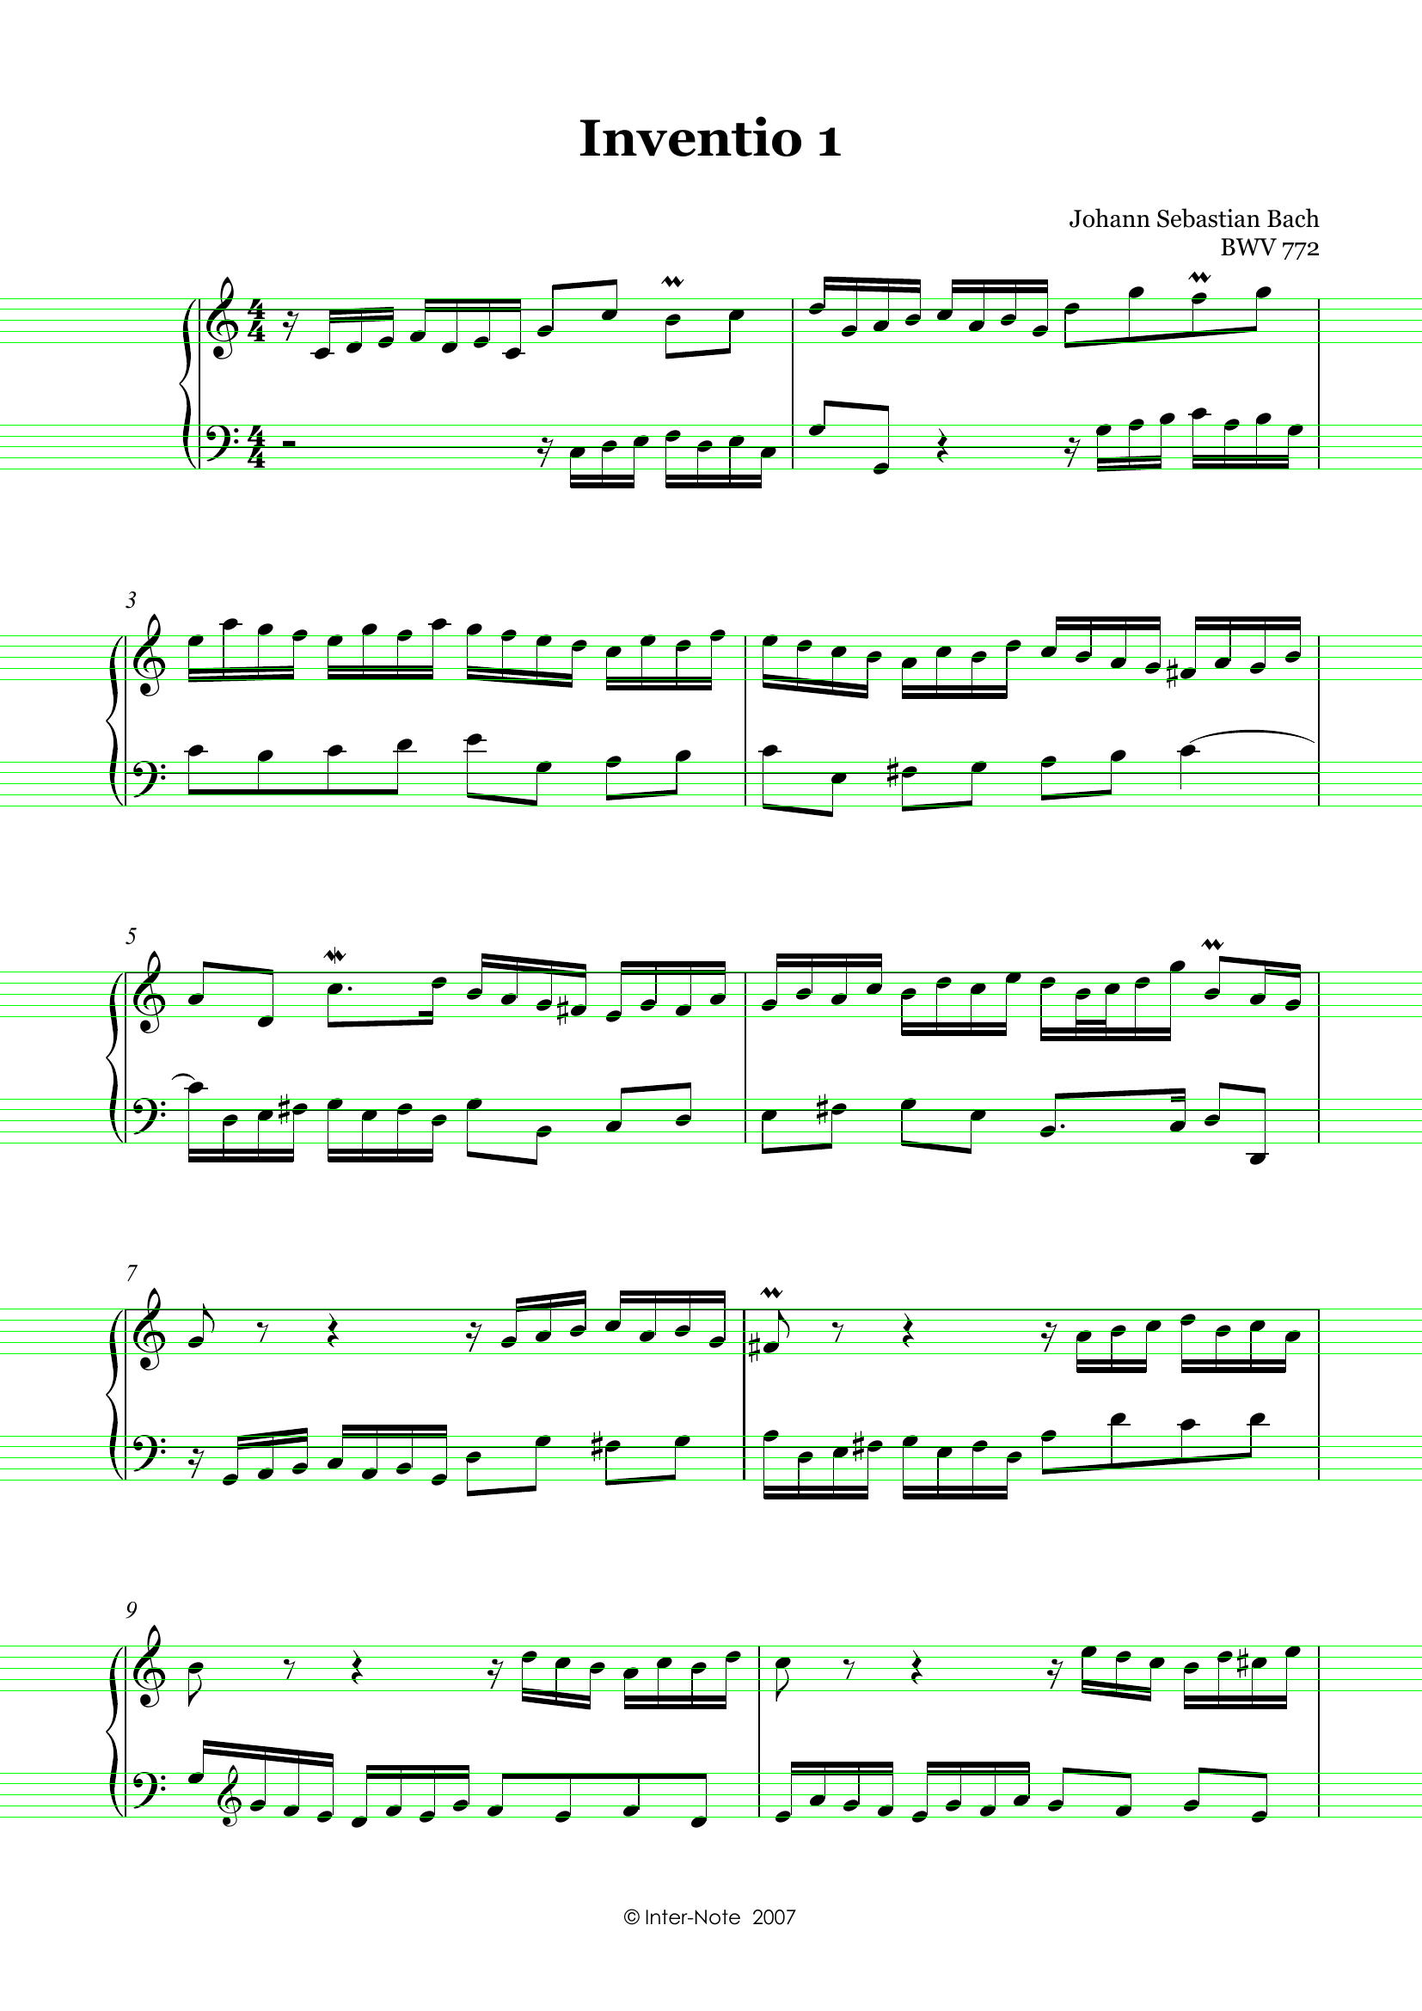
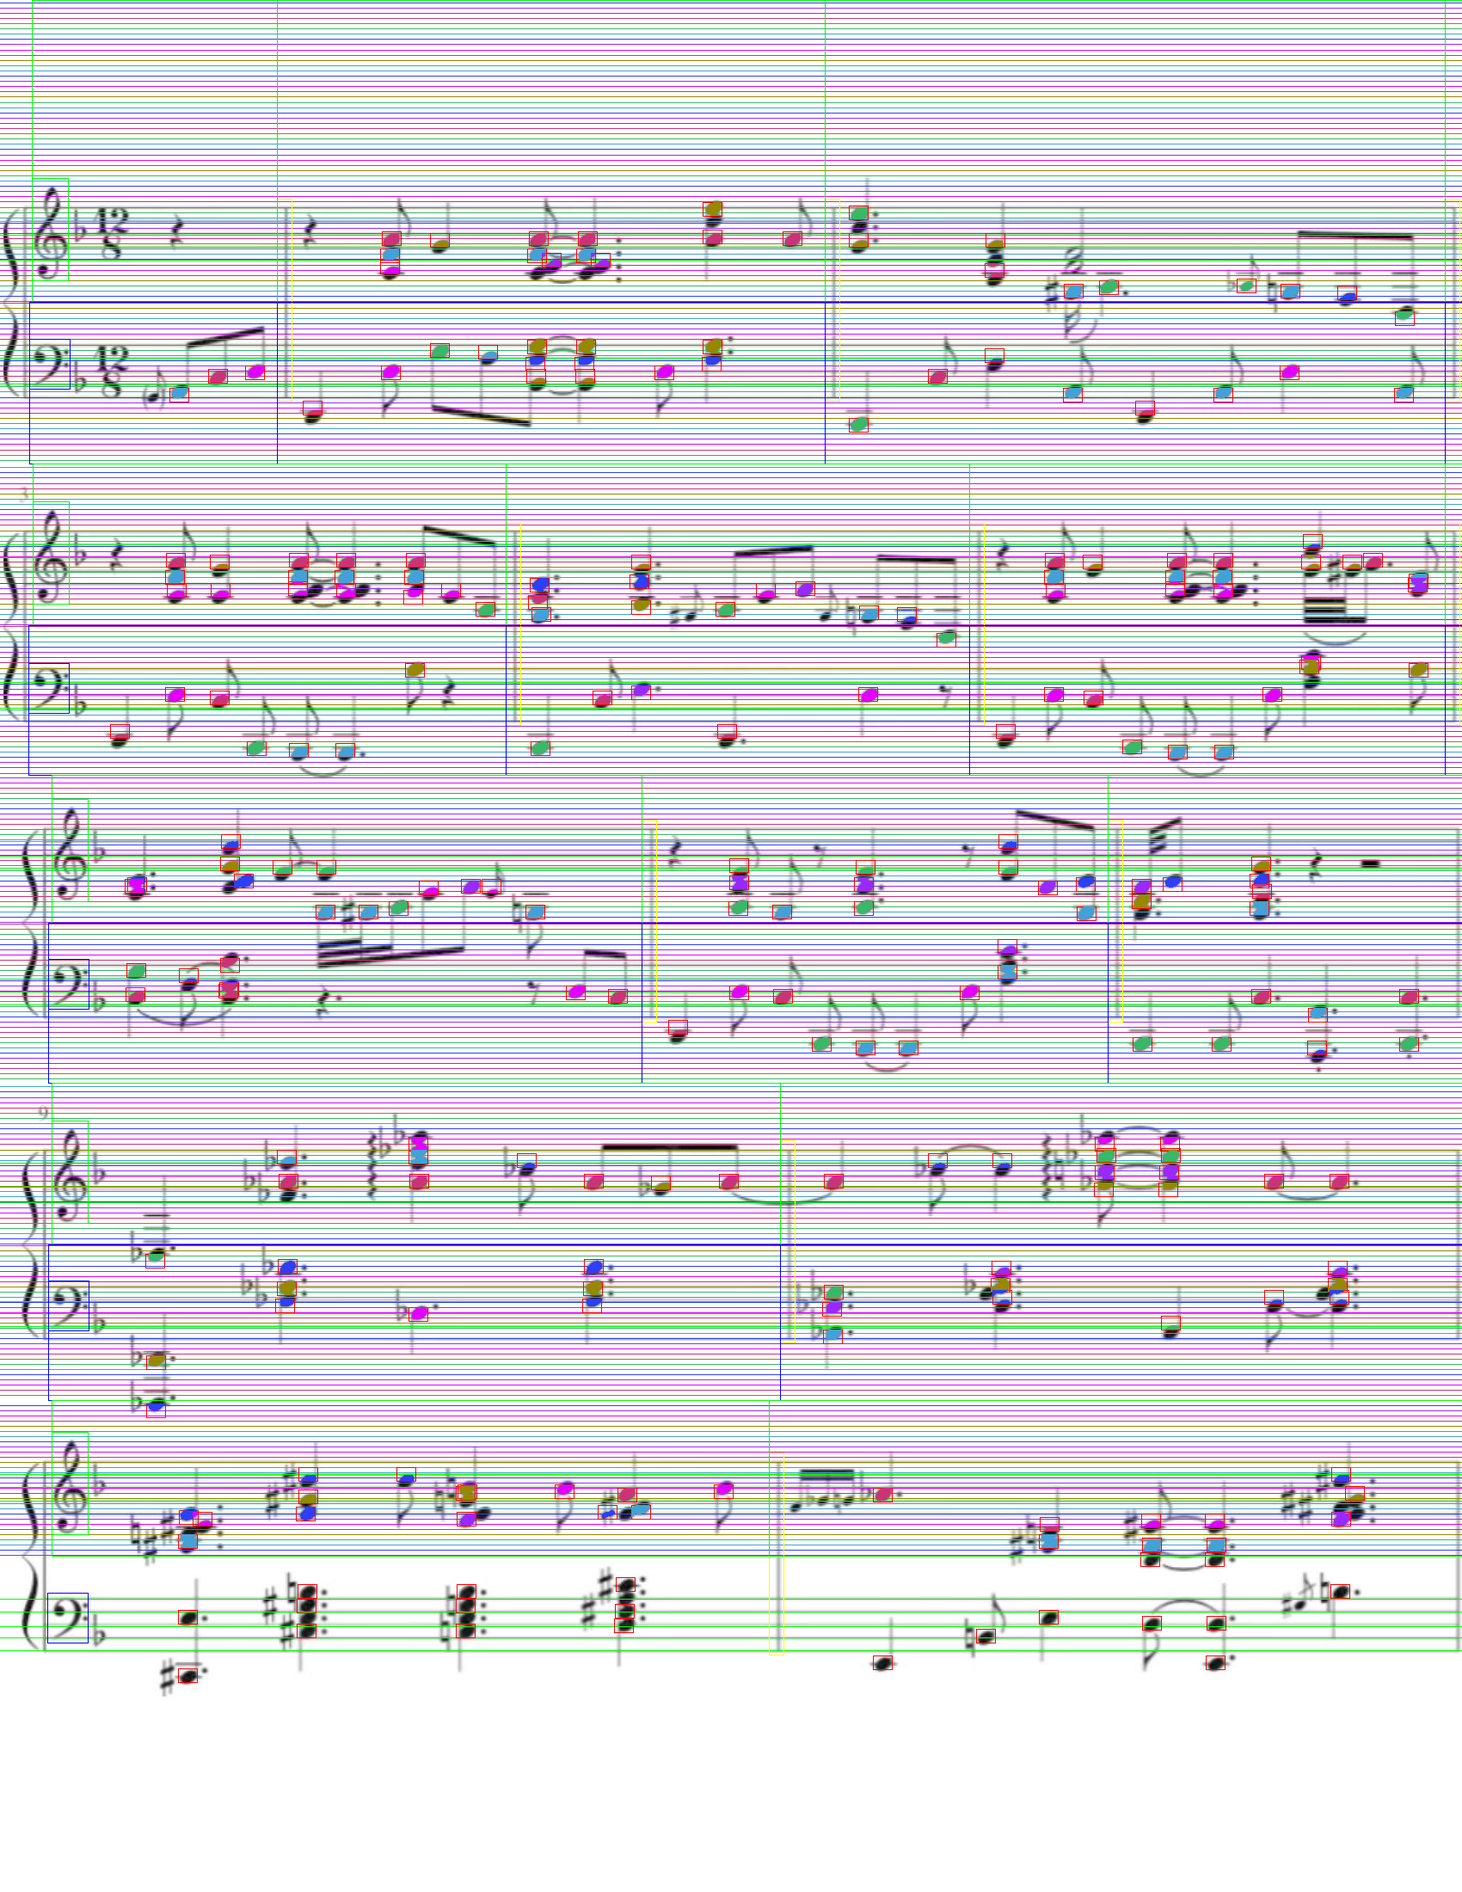
remove adjacent matches, editing, no longer a copy of feature in region

diff --git a/Window.py b/Window.py
@@ -13,16 +13,15 @@ import numpy as np
 
 """
 TODO
+staffline detection scroll bar for changing shade of black
+show center of feature and allow moving of center
 Better drawing. Drawing that isnt region dependent
-Removing adjacent matches
 Save pdf
-Better note detection: use png
 #TODO when deleting, delete from region and imageProcessor list
 only use top and bottom staffline
 adding and editing staff lines
 barline detection
 Clear out annotated and images folder at start
-On click release starting even though no rect
 when opening a new file, reset everything
 image rotation
 save not only as pdf, but binary file for later editing
@@ -263,7 +262,7 @@ class ImageEditor(tk.Tk):
         if self.add_mode_combobox.get() == self.add_mode_combobox_values[2]:#all pages
             return range(self.num_pages)
         if self.add_mode_combobox.get() == self.add_mode_combobox_values[3]:#single feature, no match_template
-            return
+            return "single"
 
     def generate_staff_lines(self, event):
         value = self.staff_line_error_scale.get()
@@ -311,18 +310,25 @@ class ImageEditor(tk.Tk):
             if self.current_feature is not None:
                 if c == 'a' or c == "A":
                     self.current_feature.set_letter('a')
+                    self.draw_image_with_filters()
                 if c == 'b' or c == "B":
                     self.current_feature.set_letter('b')
+                    self.draw_image_with_filters()
                 if c == 'c' or c == "C":
                     self.current_feature.set_letter('c')
+                    self.draw_image_with_filters()
                 if c == 'd' or c == "D":
                     self.current_feature.set_letter('d')
+                    self.draw_image_with_filters()
                 if c == 'e' or c == "E":
                     self.current_feature.set_letter('e')
+                    self.draw_image_with_filters()
                 if c == 'f' or c == "F":
                     self.current_feature.set_letter('f')
+                    self.draw_image_with_filters()
                 if c == 'g' or c == "G":
                     self.current_feature.set_letter('g')
+                    self.draw_image_with_filters()
                 if c == 'x' or c == "X":#DELETE
                     self.image_processor.remove_feature(self.current_feature, self.image_index)
                     print("deleted feature")
@@ -333,14 +339,19 @@ class ImageEditor(tk.Tk):
                     pass
                 if c == '1':
                     self.current_feature.set_accidental("double_sharp")
+                    self.draw_image_with_filters()
                 if c == '2':
                     self.current_feature.set_accidental("sharp")
+                    self.draw_image_with_filters()
                 if c == '3':
                     self.current_feature.set_accidental("natural")
+                    self.draw_image_with_filters()
                 if c == '4':
                     self.current_feature.set_accidental("flat")
+                    self.draw_image_with_filters()
                 if c == '5':
                     self.current_feature.set_accidental("double_flat")
+                    self.draw_image_with_filters()
 
         if self.editing_mode.get() == "add":
             if c == 'b' or c == "B":
@@ -513,13 +524,19 @@ class ImageEditor(tk.Tk):
         #Has to have image loaded onto the canvas
         if self.image is not None:
             if self.editing_mode.get() == "add":
+                if self.current_feature_type == "staff_line":
+                    y = self.canvas.canvasy(event.y)
+                    y_img = int(y / self.scale)
+                    self.image_processor.staff_lines[self.image_index].append(y_img)
+                    self.image_processor.staff_lines[self.image_index].sort()
+                    self.draw_image_with_filters()
                 self.rect_start = (self.canvas.canvasx(event.x), self.canvas.canvasy(event.y))
                 if self.rect:
                     self.canvas.delete(self.rect)
                 self.rect = None
             elif self.editing_mode.get() == "edit":
                 x = self.canvas.canvasx(event.x)
-                y = self.canvas.canvasx(event.y)
+                y = self.canvas.canvasy(event.y)
                 x_img = int(x / self.scale)
                 y_img = int(y / self.scale)
                 feature = self.image_processor.find_closest_feature(self.current_feature_type, self.image_index, x_img, y_img)
@@ -557,40 +574,49 @@ class ImageEditor(tk.Tk):
             rectangle = Feature((x0_img, y0_img), (x1_img, y1_img), x1_img - x0_img, y1_img - y0_img, self.current_feature_type)
 
             if self.editing_mode.get() == "add":
+
                 template = self.image_processor.images[self.image_index][rectangle.topleft[1]:rectangle.bottomright[1],
                            rectangle.topleft[0]:rectangle.bottomright[0]]
+                if self.get_loop_array_based_on_feature_mode() != "single":#if the add mode is in single, dont need to match template
+                    match_template_params = (
+                        template,
+                        (0, 255, 0),
+                        rectangle.type,
+                        10,  # error
+                        True  # draw
+                    )
+                    # Prepare the arguments for each task
+                    tasks = [
+                        (i, self.image_processor.images[i], self.image_processor.gray_images[i], match_template_params)
+                        for i in self.get_loop_array_based_on_feature_mode()
+                    ]
+                    # Create a pool of worker processes
+                    with multiprocessing.Pool() as pool:
+                        results = pool.map(ImageEditor.process_feature, tasks)
+                    for i in self.get_loop_array_based_on_feature_mode():
+                        if self.image_processor.array_types_dict[rectangle.type][i] is None:
+                            self.image_processor.array_types_dict[rectangle.type][i] = results[i]
+                        else:
+                            self.image_processor.array_types_dict[rectangle.type][i] = self.image_processor.array_types_dict[rectangle.type][i] + results[i]
+                        self.image_processor.sort_features(self.image_processor.array_types_dict[rectangle.type][i])
 
-                match_template_params = (
-                    template,
-                    (0, 255, 0),
-                    rectangle.type,
-                    10,  # error
-                    True  # draw
-                )
-                # Prepare the arguments for each task
-                tasks = [
-                    (i, self.image_processor.images[i], self.image_processor.gray_images[i], match_template_params)
-                    for i in self.get_loop_array_based_on_feature_mode()
-                ]
-                # Create a pool of worker processes
-                with multiprocessing.Pool() as pool:
-                    results = pool.map(ImageEditor.process_feature, tasks)
-                for i in self.get_loop_array_based_on_feature_mode():
-                    if self.image_processor.array_types_dict[rectangle.type][i] is None:
-                        self.image_processor.array_types_dict[rectangle.type][i] = results[i]
+                    self.draw_image_with_filters()
+
+
+                    #TODO if staffline
+
+                    # Draw the rectangle on the actual image
+                    draw = ImageDraw.Draw(self.image)
+                    draw.rectangle([x0_img, y0_img, x1_img, y1_img], outline='red')
+                    self.display_image()
+                else:#only add single feature
+                    print("single feature")
+                    if self.image_processor.array_types_dict[rectangle.type][self.image_index] is None:
+                        self.image_processor.array_types_dict[rectangle.type][self.image_index] = [rectangle]
                     else:
-                        self.image_processor.array_types_dict[rectangle.type][i] = self.image_processor.array_types_dict[rectangle.type][i] + results[i]
-                    self.image_processor.sort_features(self.image_processor.array_types_dict[rectangle.type][i])
-
-                self.draw_image_with_filters()
-
-
-                #TODO if staffline
-
-                # Draw the rectangle on the actual image
-                draw = ImageDraw.Draw(self.image)
-                draw.rectangle([x0_img, y0_img, x1_img, y1_img], outline='red')
-                self.display_image()
+                        self.image_processor.array_types_dict[rectangle.type][self.image_index] = self.image_processor.array_types_dict[rectangle.type][self.image_index] + [rectangle]
+                    self.image_processor.sort_features(self.image_processor.array_types_dict[rectangle.type][self.image_index])
+                    self.draw_image_with_filters()
             elif self.editing_mode.get() == "edit":
                 #todo find all features in rectangle
                 pass
@@ -599,11 +625,35 @@ class ImageEditor(tk.Tk):
         else:#if rect wasnt started
             pass
 
+
     @staticmethod
     def get_distance(p1, p2):
         x2 = (p1[0] - p2[0]) * (p1[0] - p2[0])
         y2 = (p1[1] - p2[1]) * (p1[1] - p2[1])
         return (x2 + y2) ** .5
+
+    @staticmethod
+    def do_features_overlap(one, two):
+        #if one feature is to the left
+        if one.bottomright[0] < two.topleft[0] or two.bottomright[0] < one.topleft[0]:
+            return False
+        #if one feature is above
+        if one.bottomright[1] < two.topleft[1] or two.bottomright[1] < one.topleft[1]:
+            return False
+
+        return True
+    @staticmethod
+    def remove_adjacent_matches(features):
+        #Todo remove at i not j
+        i = 0
+        while features is not None and i < len(features):
+            j = i + 1
+            while j < len(features):
+                if ImageEditor.do_features_overlap(features[i], features[j]) == True:
+                    features.pop(j)
+                else:
+                    j += 1
+            i += 1
 
     @staticmethod
     def match_template_parallel(image, gray_image, template, color, type,
@@ -643,8 +693,9 @@ class ImageEditor(tk.Tk):
             if draw == True:
                 cv.rectangle(image, pt, (pt[0] + gray_template_width, pt[1] + gray_template_height),
                              color, 2)
-
+        ImageEditor.remove_adjacent_matches(features)
         return features
+
 
     @staticmethod
     def process_feature(args):

diff --git a/ImageProcces.py b/ImageProcces.py
@@ -167,7 +167,7 @@ class ImageProcessing:
         feature_list = self.array_types_dict[feature_type][page_index]
         min_distance = 1000000
         closest_feature = None
-        #barlines can be stored in 2d list, so convert to 1d to match how other features are stored
+        #TODO barlines can be stored in 2d list, so convert to 1d to match how other features are stored
         #print("feature_lsit before flatten:", feature_list)
 
         if self.is_list_2d(feature_list):
@@ -474,7 +474,8 @@ class ImageProcessing:
                 if self.notes[page_index] is not None:
                     for note in self.notes[page_index]:
                         if region.is_point_in_region(note.center):
-                            notes_in_region.append(note.copy())
+                            #notes_in_region.append(note.copy())
+                            notes_in_region.append(note)
                     region.notes = (notes_in_region)
                 else:
                     print("notes empty on page", page_index)
@@ -484,7 +485,9 @@ class ImageProcessing:
                     for accidental in self.accidentals[page_index]:
                         if region.is_point_in_region(accidental.center):
                             # print("inregion topleft: ", region.topleft, "bottomright: ", region.bottomright, "Center: ", accidental.get_center())
-                            accidentals_in_region.append(accidental.copy())
+                            #accidentals_in_region.append(accidental.copy())
+                            accidentals_in_region.append(accidental)
+
                     region.accidentals = (accidentals_in_region)
                 else:
                     print("Accidentals empty on page", page_index)
@@ -510,17 +513,60 @@ class ImageProcessing:
             for region in self.regions[i]:
                 region.fill_implied_lines()
 
+    def fill_in_feature(self, page_index, topleft, bottomright, color):
+        for i in range(topleft[1], bottomright[1], 1):
+            for j in range(topleft[0], bottomright[0], 1):
+                if self.gray_images[page_index][i][j] < 255 / 2:
+                    self.images[page_index][i][j] = color
 
     def draw_features(self, features, page_index, color):
         print("Drawing the features loop")
-        if features[page_index] is not None:
-            for feature in features[page_index]:
-                if type(feature) is not Feature:#if 2d list: barlines
-                    for f in feature:
-                        cv.rectangle(self.images[page_index], f.topleft, f.bottomright, color, 1)
+        feature_list = features[page_index]
+        if self.is_list_2d(features[page_index]):
+            print("2d list")
+            feature_list = self.flatten_2d_list(features[page_index])
+        # print("feature_lsit:",feature_list)
+        if feature_list is not None:
+            for feature in feature_list:
+                if feature is not None:
+                #if features[page_index] is not None:
+                #    for feature in features[page_index]:
+                #        if type(feature) is not Feature:#if 2d list: barlines
+                #            for f in feature:
+                #                cv.rectangle(self.images[page_index], f.topleft, f.bottomright, color, 1)
 
-                else:
-                    print("Drawing: ", feature)
+                    #print("Drawing: ", feature)
+                    # if it is a note or accidental that has a letter labeled
+                    if feature.letter != "":
+                        print("note: ", feature)
+                        if feature.accidental != "":
+                            print("note: ", feature)
+                            accidental = feature.accidental
+                            if accidental == "flat":
+                                self.fill_in_feature(page_index, (feature.topleft[0], feature.center[1]),
+                                                     feature.bottomright, self.letter_colors[feature.letter])
+                            if accidental == "sharp":
+                                self.fill_in_feature(page_index, feature.topleft,
+                                                     (feature.bottomright[0], feature.center[1]),
+                                                     self.letter_colors[feature.letter])
+
+                            if accidental == "double_flat":
+                                self.fill_in_feature(page_index, feature.topleft,
+                                                     (feature.center[0], feature.bottomright[1]),
+                                                     self.letter_colors[feature.letter])
+                            if accidental == "double_sharp":
+                                self.fill_in_feature(page_index,
+                                                     (feature.center[0], feature.topleft[1]), feature.bottomright,
+                                                     self.letter_colors[feature.letter])
+                            if accidental == "natural":
+                                self.fill_in_feature(page_index, feature.topleft, feature.bottomright,
+                                                     self.letter_colors[feature.letter])
+
+                        else:  # note with no accidental
+                            self.fill_in_feature(page_index, feature.topleft, feature.bottomright,
+                                                 self.letter_colors[feature.letter])
+                        # self.fill_in_feature(page_index, f.topleft, f.bottomright, self.letter_colors[f.letter])
+                   # else:  # if not a note or accidental
                     cv.rectangle(self.images[page_index], feature.topleft, feature.bottomright, color, 1)
 
 

diff --git a/Region.py b/Region.py
@@ -137,7 +137,7 @@ class Region:
                 if accidental == "double_flat":
                     self.fill_in_feature(img, gray_img, note.topleft, (note.center[0], note.bottomright[1]), letter_colors[note.letter])
                 if accidental == "double_sharp":
-                    self.fill_in_feature(img, gray_img, (note.center[0], note.topleft[1], note.bottomright), letter_colors[note.letter])
+                    self.fill_in_feature(img, gray_img, (note.center[0], note.topleft[1]), note.bottomright, letter_colors[note.letter])
                 if accidental == "natural":
                     self.fill_in_feature(img, gray_img, note.topleft, note.bottomright, letter_colors[note.letter])
 
